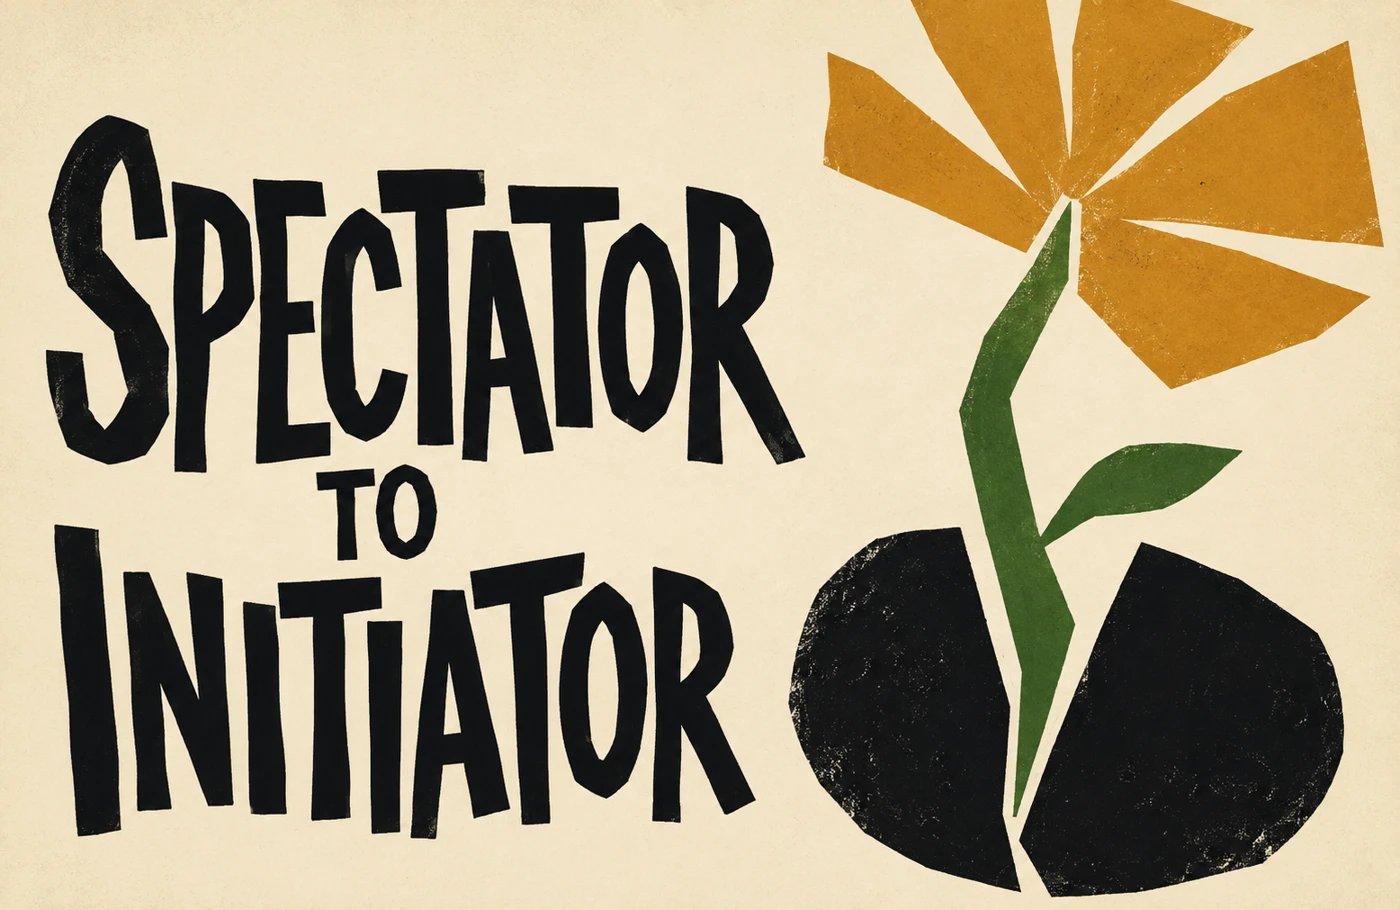
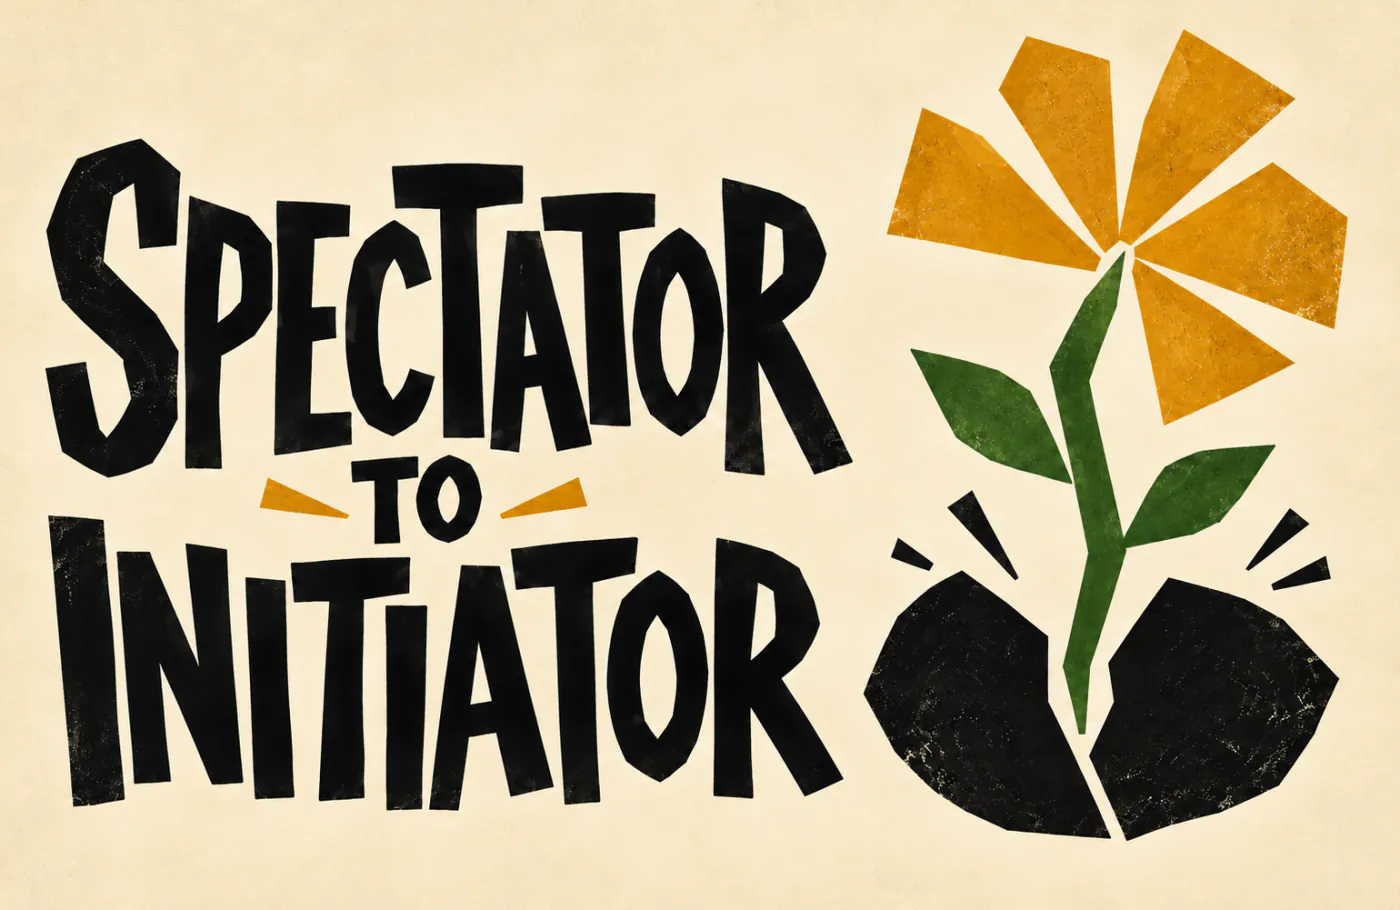
Refresh homepage Recently card artwork

diff --git a/index.html b/index.html
@@ -62,7 +62,7 @@
          preloads even same-origin, or the browser fetches twice. -->
     <link rel="preload" href="/fonts/audiowide-v22.woff2" as="font" type="font/woff2" crossorigin>
     <link rel="preload" href="/fonts/space-mono-v17-400.woff2" as="font" type="font/woff2" crossorigin>
-    <link rel="preload" as="image" href="images/toast-iq-cloche-card.webp" fetchpriority="high">
+    <link rel="preload" as="image" href="images/toast-iq-cloche-card.webp?v=20260909101748" fetchpriority="high">
     
     <!-- RSS Feed Performance Optimization -->
     <!-- No preconnect for api.rss2json.com: it is only the fallback path in
@@ -109,7 +109,7 @@
                 <a href="https://pos.toasttab.com/blog/data/q1-2026-restaurant-ai-pos-trends" target="_blank" rel="noopener noreferrer" class="showcase-item showcase-item-featured showcase-item-toast" data-col="0">
                     <svg class="showcase-signal" aria-hidden="true" focusable="false"><rect class="showcase-signal-blip" pathLength="100"></rect></svg>
                     <div class="showcase-media">
-                        <img src="images/toast-iq-cloche-card.webp" alt="Toast IQ: a cream serving cloche whose outline becomes a speech bubble, on Toast orange with a blue tray" class="toastiq-img" width="700" height="455" fetchpriority="high" decoding="async">
+                        <img src="images/toast-iq-cloche-card.webp?v=20260909101748" alt="Toast IQ: a cream serving cloche whose outline becomes a speech bubble, on Toast orange with a blue tray" class="toastiq-img" width="1400" height="910" fetchpriority="high" decoding="async">
                     </div>
                     <div class="showcase-caption">
                         <div class="showcase-caption-topline">
@@ -126,7 +126,7 @@
                 <a href="/before-times.html" class="showcase-item showcase-item-bt" data-col="1">
                     <svg class="showcase-signal" aria-hidden="true" focusable="false"><rect class="showcase-signal-blip" pathLength="100"></rect></svg>
                     <div class="showcase-media">
-                        <img src="images/before-times-door-card.webp" alt="The Before Times: an open archive doorway spills warm light across a deep teal cut-paper poster" width="700" height="455" loading="lazy" decoding="async">
+                        <img src="images/before-times-door-card.webp?v=20260909101216" alt="The Before Times: an open archive doorway spills warm light across a deep teal cut-paper poster" width="1400" height="910" loading="lazy" decoding="async">
                     </div>
                     <div class="showcase-caption">
                         <div class="showcase-caption-topline">
@@ -143,7 +143,7 @@
                 <a href="/junkyard-cabaret" class="showcase-item showcase-item-jc" id="jcTile" data-col="2">
                     <svg class="showcase-signal" aria-hidden="true" focusable="false"><rect class="showcase-signal-blip" pathLength="100"></rect></svg>
                     <div class="showcase-media">
-                        <img src="images/junkyard-cabaret-barker-card.webp" alt="Junkyard Cabaret: a patched, top-hatted barker bows beneath a golden spotlight in cut-paper shapes" width="700" height="455" loading="lazy" decoding="async">
+                        <img src="images/junkyard-cabaret-barker-card.webp?v=20260909b" alt="Junkyard Cabaret: a patched, top-hatted barker tips his hat beneath a golden spotlight in cut-paper shapes" width="1400" height="904" loading="lazy" decoding="async">
                     </div>
                     <div class="showcase-caption">
                         <div class="showcase-caption-topline">
@@ -160,7 +160,7 @@
                 <a href="/mixtape" class="showcase-item showcase-item-mixtape" data-col="3">
                     <svg class="showcase-signal" aria-hidden="true" focusable="false"><rect class="showcase-signal-blip" pathLength="100"></rect></svg>
                     <div class="showcase-media">
-                        <img src="images/exploring-laibor-spiral-card.webp" alt="Exploring L.ai.bor Mixtape: a jagged red record spiral and cream cut-paper lettering against midnight blue" width="700" height="455" loading="lazy" decoding="async">
+                        <img src="images/exploring-laibor-spiral-card.webp?v=20260909101216" alt="Exploring L.ai.bor Mixtape: a jagged red record spiral with a cream tonearm and cut-paper lettering against midnight blue" width="1400" height="910" loading="lazy" decoding="async">
                     </div>
                     <div class="showcase-caption">
                         <div class="showcase-caption-topline">
@@ -177,7 +177,7 @@
                 <a href="/s2i" id="s2iTile" class="showcase-item showcase-item-s2i" data-col="4">
                     <svg class="showcase-signal" aria-hidden="true" focusable="false"><rect class="showcase-signal-blip" pathLength="100"></rect></svg>
                     <div class="showcase-media">
-                        <img src="images/s2i-split-seed-card.webp" alt="Spectator to Initiator: a split seed sends up a green shoot and golden bloom in cut-paper shapes" width="700" height="455" loading="lazy" decoding="async">
+                        <img src="images/s2i-split-seed-card.webp?v=20260909101748" alt="Spectator to Initiator: a split seed sends up a green shoot and golden bloom in cut-paper shapes" width="1400" height="910" loading="lazy" decoding="async">
                     </div>
                     <div class="showcase-caption">
                         <div class="showcase-caption-topline">
@@ -194,7 +194,7 @@
                 <a href="/spacetoots/" class="showcase-item showcase-item-game" data-col="5">
                     <svg class="showcase-signal" aria-hidden="true" focusable="false"><rect class="showcase-signal-blip" pathLength="100"></rect></svg>
                     <div class="showcase-media">
-                        <img src="images/space-toots-shepherd-card.webp" alt="Space Toots: a magenta shepherd core holds six cut-paper asteroids in violet gravitational rings" width="700" height="455" loading="lazy" decoding="async">
+                        <img src="images/space-toots-shepherd-card.webp?v=20260909101748" alt="Space Toots: a magenta shepherd core holds six cut-paper asteroids in violet gravitational rings" width="1400" height="910" loading="lazy" decoding="async">
                     </div>
                     <div class="showcase-caption">
                         <div class="showcase-caption-topline">
